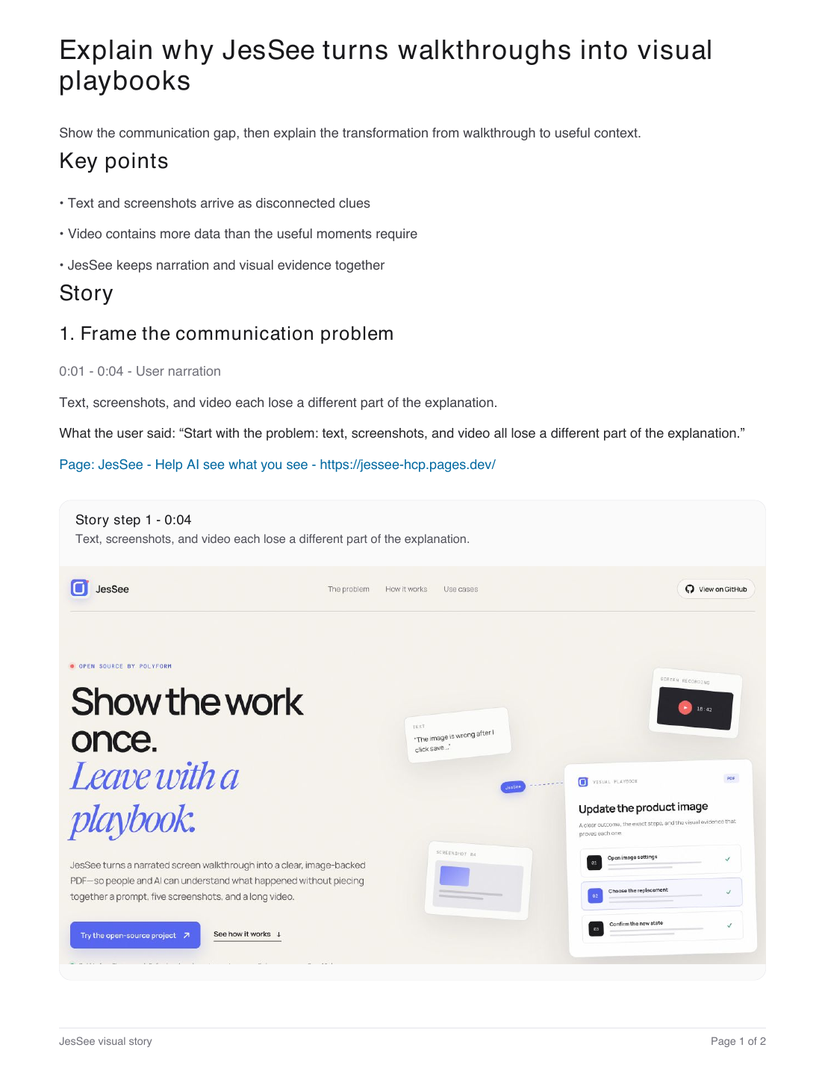
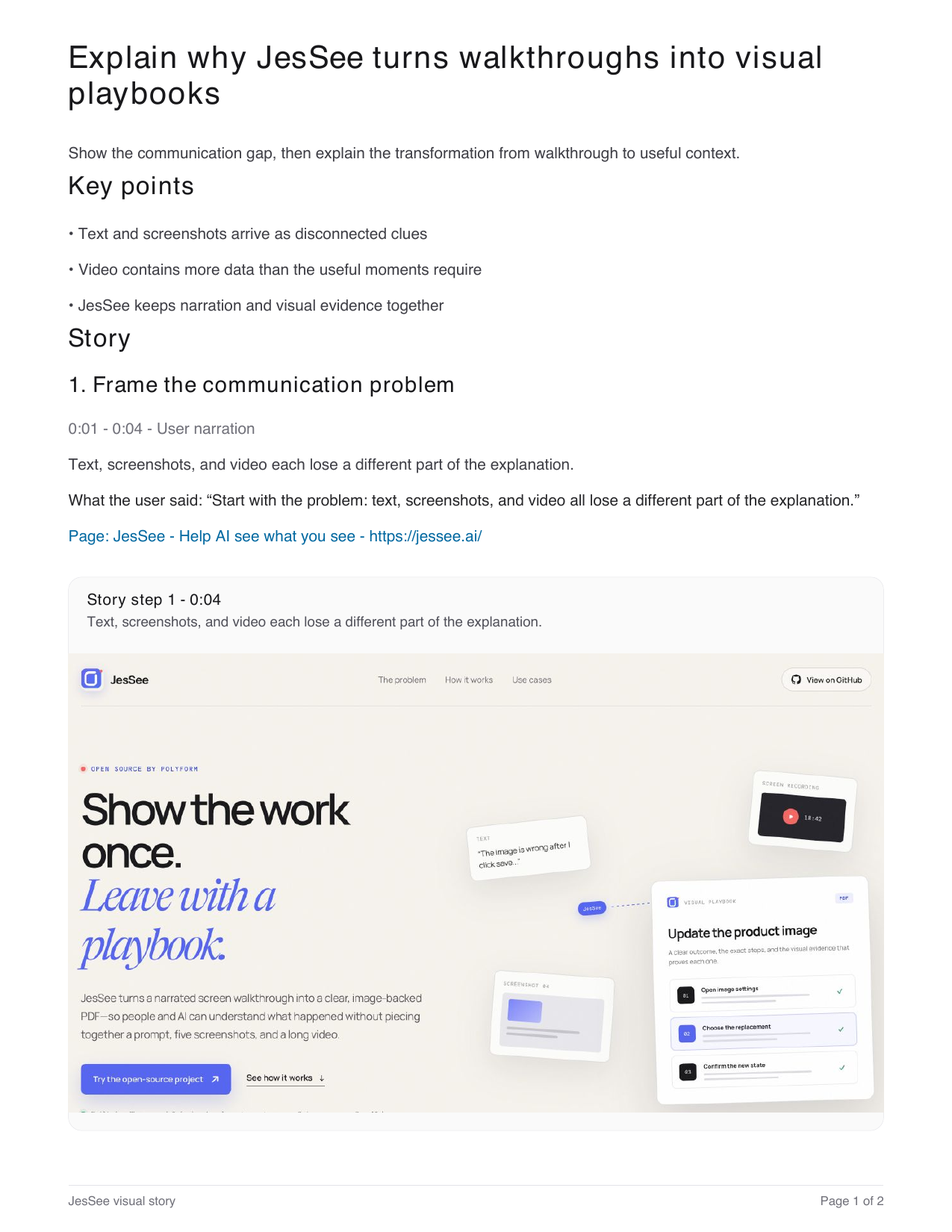
Add downloadable JesSee previews

diff --git a/website/styles.css b/website/styles.css
@@ -120,14 +120,19 @@ em { color: var(--violet); font-family: var(--serif); font-weight: 400; }
 .step-copy ul { margin: 25px 0 0; padding: 0; list-style: none; }
 .step-copy li { margin: 10px 0; padding-left: 22px; color: #46454b; font-size: 12px; position: relative; }
 .step-copy li::before { content: "✓"; position: absolute; left: 0; color: var(--violet); font-weight: 700; }
-.artifact-link { display: inline-flex; align-items: center; gap: 9px; margin-top: 26px; padding-bottom: 4px; border-bottom: 1px solid var(--ink); text-decoration: none; font-size: 12px; font-weight: 600; }
-.artifact-link span { color: var(--violet); font-size: 15px; }
+.artifact-link { width: min(100%, 390px); display: grid; grid-template-columns: 39px 1fr 22px; align-items: center; gap: 12px; margin-top: 27px; padding: 12px 14px; border: 1px solid var(--line); border-radius: 9px; background: rgba(255,255,255,.62); text-decoration: none; transition: transform .2s ease, background .2s ease, box-shadow .2s ease; }
+.artifact-link:hover { transform: translateY(-2px); background: white; box-shadow: 0 13px 30px rgba(36,33,49,.1); }
+.artifact-link .artifact-type { width: 39px; height: 39px; display: grid; place-items: center; border-radius: 7px; color: white; background: var(--violet); font-family: var(--mono); font-size: 8px; letter-spacing: .07em; }
+.artifact-link strong, .artifact-link small { display: block; }
+.artifact-link strong { font-size: 12px; }
+.artifact-link small { margin-top: 3px; color: var(--muted); font-size: 9px; font-weight: 400; }
+.artifact-link b { color: var(--violet); font-size: 18px; }
 .product-shot { width: 100%; padding: 0; overflow: hidden; position: relative; border: 1px solid rgba(25,25,28,.14); border-radius: 12px; background: #edeaf0; box-shadow: 0 28px 70px rgba(36,33,49,.13); cursor: zoom-in; text-align: left; }
 .product-shot img { width: 100%; object-fit: cover; transition: transform .45s ease; }
 .product-shot:hover img { transform: scale(1.015); }
 .product-shot > span { position: absolute; right: 13px; bottom: 13px; padding: 7px 9px; border: 1px solid rgba(25,25,28,.12); border-radius: 6px; background: rgba(255,255,255,.92); font-family: var(--mono); font-size: 8px; box-shadow: 0 6px 20px rgba(0,0,0,.08); }
 .product-shot > span b { margin-left: 5px; color: var(--violet); }
-.compact-shot { max-width: 490px; justify-self: end; background: #f8f8fa; }
+.compact-shot { max-width: 408px; justify-self: end; background: #f8f8fa; }
 .compact-shot img { aspect-ratio: auto; object-fit: contain; }
 .playbook-shot img { aspect-ratio: 16/10; object-position: top; }
 .final-step { grid-template-columns: .72fr 1.28fr; border-bottom: 0; }
@@ -137,6 +142,39 @@ em { color: var(--violet); font-family: var(--serif); font-weight: 400; }
 .pdf-page.front { padding: 0; overflow: hidden; position: relative; z-index: 1; transform: rotate(-2deg); }
 .pdf-preview { width: 100%; height: 100%; object-fit: cover; object-position: top; }
 .pdf-badge { position: absolute; right: 70px; bottom: 34px; z-index: 2; padding: 8px 11px; border-radius: 999px; color: white; background: var(--ink); font-family: var(--mono); font-size: 8px; letter-spacing: .06em; box-shadow: 0 8px 20px rgba(0,0,0,.15); }
+
+.downloads { padding-bottom: 125px; border-top: 1px solid var(--line); }
+.download-intro { display: grid; grid-template-columns: 1fr .62fr; gap: 110px; align-items: end; margin-bottom: 62px; }
+.download-intro h2 { margin: 0; font-size: clamp(42px, 4.4vw, 62px); line-height: 1.03; letter-spacing: -.058em; }
+.download-intro > p { max-width: 500px; margin: 0 0 6px; color: var(--muted); font-size: 14px; line-height: 1.72; }
+.download-grid { display: grid; grid-template-columns: 1fr 1fr; gap: 18px; }
+.download-card { min-height: 520px; padding: 37px; display: flex; flex-direction: column; border: 1px solid var(--line); border-radius: 14px; background: rgba(255,255,255,.58); box-shadow: 0 18px 48px rgba(36,33,49,.07); }
+.download-card.safari-card { background: #1d1d21; color: white; box-shadow: 0 22px 54px rgba(25,25,28,.17); }
+.download-card-head { display: grid; grid-template-columns: 52px 1fr auto; gap: 14px; align-items: center; margin-bottom: 35px; }
+.browser-mark { width: 52px; height: 52px; display: grid; place-items: center; border-radius: 13px; background: white; box-shadow: 0 8px 23px rgba(35,34,43,.12); position: relative; }
+.chrome-mark::before { content: ""; width: 30px; height: 30px; border-radius: 50%; background: conic-gradient(#ea4335 0 33%, #fbbc05 0 66%, #34a853 0); }
+.chrome-mark::after { content: ""; width: 12px; height: 12px; position: absolute; border: 4px solid white; border-radius: 50%; background: #4285f4; }
+.safari-mark { color: #2272e8; font-size: 30px; background: linear-gradient(145deg,#fff,#dcecff); }
+.download-card-head small { display: block; margin-bottom: 3px; color: var(--violet-dark); font-family: var(--mono); font-size: 7px; letter-spacing: .1em; }
+.safari-card .download-card-head small { color: #aaaaff; }
+.download-card-head h3 { margin: 0; font-size: 24px; letter-spacing: -.04em; }
+.download-card-head > b { padding: 5px 8px; border: 1px solid var(--line); border-radius: 999px; color: var(--muted); font-family: var(--mono); font-size: 7px; letter-spacing: .06em; }
+.safari-card .download-card-head > b { border-color: rgba(255,255,255,.17); color: #bab9c0; }
+.download-card > p { max-width: 510px; color: var(--muted); font-size: 14px; line-height: 1.7; }
+.safari-card > p { color: #b8b7bd; }
+.download-card ol { margin: 22px 0 32px; padding: 0; list-style: none; counter-reset: install; }
+.download-card li { min-height: 40px; padding: 10px 0 10px 43px; border-top: 1px solid var(--line); color: #4e4d53; font-size: 11px; line-height: 1.6; counter-increment: install; position: relative; }
+.download-card li:last-child { border-bottom: 1px solid var(--line); }
+.download-card li::before { content: counter(install); width: 23px; height: 23px; display: grid; place-items: center; position: absolute; left: 3px; top: 8px; border-radius: 6px; color: white; background: var(--ink); font-family: var(--mono); font-size: 8px; }
+.safari-card li { border-color: rgba(255,255,255,.13); color: #c7c6cb; }
+.safari-card li::before { color: var(--ink); background: white; }
+.download-button { width: 100%; margin-top: auto; }
+.safari-button { color: var(--ink); background: white; box-shadow: 0 13px 30px rgba(0,0,0,.18); }
+.safari-button:hover { background: #eeeeff; }
+.preview-note { display: block; margin-top: 15px; color: #929198; font-size: 9px; line-height: 1.55; }
+.download-foot { padding: 20px 4px 0; display: flex; justify-content: space-between; color: var(--muted); font-family: var(--mono); font-size: 9px; }
+.download-foot > span::before { content: ""; width: 6px; height: 6px; display: inline-block; margin: 0 8px 1px 0; border-radius: 50%; background: #f1a631; }
+.download-foot a { text-underline-offset: 4px; }
 
 .uses { width: 100%; max-width: none; padding-left: max(20px, calc((100vw - var(--max)) / 2)); padding-right: max(20px, calc((100vw - var(--max)) / 2)); background: #ece8de; }
 .uses-layout { display: grid; grid-template-columns: .76fr 1.24fr; gap: 110px; }
@@ -181,6 +219,9 @@ em { color: var(--violet); font-family: var(--serif); font-weight: 400; }
 
 footer { width: min(calc(100% - 40px), var(--max)); min-height: 130px; margin: 0 auto; display: flex; align-items: center; justify-content: space-between; }
 footer p { margin: 0; color: var(--muted); font-size: 11px; }footer p a{text-underline-offset:3px}footer > div{display:flex;gap:20px}footer > div a{color:var(--muted);font-size:10px;text-decoration:none}footer > div a:hover{color:var(--ink)}
+.made-by { padding: 8px 12px; border: 1px solid var(--line); border-radius: 999px; color: var(--muted); text-decoration: none; font-family: var(--mono); font-size: 9px; transition: color .2s ease, background .2s ease; }
+.made-by:hover { color: var(--ink); background: white; }
+.made-by span { color: var(--violet); }
 
 .lightbox { width: min(94vw, 1400px); max-height: 92vh; padding: 10px; border: 0; border-radius: 12px; background: #111; box-shadow: 0 30px 100px rgba(0,0,0,.45); }.lightbox::backdrop{background:rgba(15,14,20,.78);backdrop-filter:blur(6px)}.lightbox img{width:100%;max-height:calc(92vh - 20px);object-fit:contain}.lightbox button{position:fixed;right:24px;top:20px;width:38px;height:38px;border:1px solid rgba(255,255,255,.35);border-radius:50%;color:white;background:rgba(0,0,0,.5);font-size:22px;cursor:pointer}
 
@@ -191,10 +232,11 @@ footer p { margin: 0; color: var(--muted); font-size: 11px; }footer p a{text-und
   .hero { min-height: auto; grid-template-columns: 1fr; padding: 70px 0 90px; }
   .hero-copy { max-width: 720px; }
   .hero-visual { width: min(100%, 680px); min-height: 555px; margin: 0 auto; }
-  .problem-heading, .section-intro, .origin, .opensource { grid-template-columns: 1fr; gap: 45px; }
+  .problem-heading, .section-intro, .download-intro, .origin, .opensource { grid-template-columns: 1fr; gap: 45px; }
   .problem-heading { align-items: start; }.problem-heading p,.section-intro p{max-width:650px}
   .step, .step.reverse, .final-step { grid-template-columns: 1fr; gap: 55px; }.step.reverse .step-copy{order:0}.compact-shot{justify-self:start}
   .uses-layout { grid-template-columns: 1fr; gap: 50px; }.uses-title{position:static}.origin-copy{order:-1}
+  .download-grid { grid-template-columns: 1fr; }.download-card{min-height:490px}
   .opensource { padding-top: 100px; padding-bottom: 100px; }.repo-card{max-width:680px}
 }
 
@@ -205,7 +247,7 @@ footer p { margin: 0; color: var(--muted); font-size: 11px; }footer p a{text-und
   .section{padding-top:85px;padding-bottom:85px}.section-label{margin-bottom:40px}.problem-heading h2,.section-intro h2,.origin-copy h2{font-size:38px}
   .problem-grid{grid-template-columns:1fr}.problem-card{min-height:220px;border-right:0;border-bottom:1px solid var(--line)}.problem-card:last-child{border-bottom:0}.problem-card svg{margin-bottom:35px}
   .bridge{padding-top:85px;padding-bottom:85px}.bridge blockquote{font-size:37px}
-  .step{min-height:auto;padding:70px 0}.product-shot img{aspect-ratio:1.2/1}.pdf-result{min-height:460px;transform:scale(.9)}
+  .step{min-height:auto;padding:70px 0}.product-shot img{aspect-ratio:1.2/1}.compact-shot img{aspect-ratio:auto}.pdf-result{min-height:460px;transform:scale(.9)}.download-card{min-height:auto;padding:27px}.download-card-head{grid-template-columns:47px 1fr}.download-card-head>b{display:none}.download-foot{align-items:flex-start;flex-direction:column;gap:13px}
   .use-case{grid-template-columns:42px 1fr}.origin-card{min-height:480px;padding:37px}.origin-card blockquote{font-size:24px}.open-actions{align-items:flex-start;flex-direction:column}.repo-meta{flex-wrap:wrap}
   footer{padding:30px 0;align-items:flex-start;flex-direction:column;gap:20px}
 }

diff --git a/website/index.html b/website/index.html
@@ -8,9 +8,9 @@
     <meta property="og:title" content="JesSee — Show the work once. Leave with a playbook." />
     <meta property="og:description" content="An open-source screen explainer for turning narrated workflows into useful visual documents." />
     <meta property="og:type" content="website" />
-    <meta property="og:url" content="https://jessee-hcp.pages.dev/" />
-    <meta property="og:image" content="assets/playbook-review.png" />
-    <link rel="canonical" href="https://jessee-hcp.pages.dev/" />
+    <meta property="og:url" content="https://jessee.ai/" />
+    <meta property="og:image" content="https://jessee.ai/assets/playbook-review.png" />
+    <link rel="canonical" href="https://jessee.ai/" />
     <title>JesSee — Help AI see what you see</title>
     <link rel="icon" href="assets/icon.svg" type="image/svg+xml" />
     <link rel="stylesheet" href="styles.css" />
@@ -28,6 +28,7 @@
         <a href="#problem">The problem</a>
         <a href="#how">How it works</a>
         <a href="#uses">Use cases</a>
+        <a href="#download">Download</a>
       </nav>
       <a class="nav-cta" href="https://github.com/polyform-ai/jessee" target="_blank" rel="noreferrer">
         <svg aria-hidden="true" viewBox="0 0 24 24"><path d="M12 .7a11.5 11.5 0 0 0-3.6 22.4c.6.1.8-.2.8-.6v-2.2c-3.4.7-4.1-1.5-4.1-1.5-.5-1.4-1.3-1.8-1.3-1.8-1.1-.8.1-.8.1-.8 1.2.1 1.8 1.2 1.8 1.2 1.1 1.8 2.8 1.3 3.5 1 .1-.8.4-1.3.8-1.6-2.7-.3-5.5-1.3-5.5-5.7 0-1.3.5-2.3 1.2-3.1-.1-.3-.5-1.6.1-3.1 0 0 1-.3 3.2 1.2a11.1 11.1 0 0 1 5.8 0C16 4.6 17 4.9 17 4.9c.6 1.5.2 2.8.1 3.1.8.8 1.2 1.8 1.2 3.1 0 4.4-2.8 5.4-5.5 5.7.4.4.8 1.1.8 2.2v3.5c0 .4.2.7.8.6A11.5 11.5 0 0 0 12 .7Z"/></svg>
@@ -42,7 +43,7 @@
           <h1>Show the work once.<br /><em>Leave with a playbook.</em></h1>
           <p class="hero-lede">JesSee turns a narrated screen walkthrough into a clear, image-backed PDF—so people and AI can understand what happened without piecing together a prompt, five screenshots, and a long video.</p>
           <div class="hero-actions">
-            <a class="button primary" href="https://github.com/polyform-ai/jessee" target="_blank" rel="noreferrer">Try the open-source project <span aria-hidden="true">↗</span></a>
+            <a class="button primary" href="#download">Download the preview <span aria-hidden="true">↓</span></a>
             <a class="text-link" href="#how">See how it works <span aria-hidden="true">↓</span></a>
           </div>
           <p class="hero-note"><span class="status-dot"></span> Built for Chrome and Safari · Local capture storage · Bring your own OpenAI key</p>
@@ -136,7 +137,7 @@
               <ul><li>Narration stays aligned with the screen</li><li>Important clicks become evidence moments</li><li>Private Mode can keep screenshot pixels local</li></ul>
             </div>
             <button class="product-shot compact-shot" type="button" data-lightbox="assets/capture-coach.png" aria-label="Enlarge the JesSee capture coach screenshot">
-              <img src="assets/capture-coach.png" alt="JesSee capture window showing the Frame it, Show it, Land it coaching rhythm" />
+              <img src="assets/capture-coach.png" alt="JesSee capture window showing the Frame it, Show it, Land it coaching rhythm" loading="lazy" decoding="async" />
               <span>Actual JesSee interface <b>↗</b></span>
             </button>
           </article>
@@ -149,7 +150,7 @@
               <ul><li>Review one piece at a time</li><li>Swap any suggested image</li><li>Edit every word before export</li></ul>
             </div>
             <button class="product-shot playbook-shot" type="button" data-lightbox="assets/playbook-review.png" aria-label="Enlarge the JesSee visual playbook screenshot">
-              <img src="assets/playbook-review.png" alt="JesSee playbook editor with story sections and ranked screenshot choices" />
+              <img src="assets/playbook-review.png" alt="JesSee playbook editor with story sections and ranked screenshot choices" loading="lazy" decoding="async" />
               <span>Actual JesSee interface <b>↗</b></span>
             </button>
           </article>
@@ -159,12 +160,16 @@
               <span>STEP 03</span>
               <h3>Hand off something useful</h3>
               <p>Generate a structured PDF that another person can scan, discuss, or give to an AI agent. The important words and visual proof travel together.</p>
-              <a class="artifact-link" href="assets/jessee-explains-jessee.pdf" target="_blank">Open the PDF JesSee made from this site <span aria-hidden="true">↗</span></a>
+              <a class="artifact-link" href="assets/jessee-explains-jessee.pdf" download="JesSee-example-playbook.pdf">
+                <span class="artifact-type">PDF</span>
+                <span><strong>Download example PDF</strong><small>Two-page playbook made by JesSee from this site</small></span>
+                <b aria-hidden="true">↓</b>
+              </a>
             </div>
             <div class="pdf-result" aria-label="A visual playbook ready to share">
               <div class="pdf-page back"></div>
               <div class="pdf-page front">
-                <img class="pdf-preview" src="assets/jessee-explains-jessee-page.png" alt="First page of the PDF JesSee generated while explaining this website" />
+                <img class="pdf-preview" src="assets/jessee-explains-jessee-page.png" alt="First page of the PDF JesSee generated while explaining this website" loading="lazy" decoding="async" />
               </div>
               <span class="pdf-badge">READY TO SHARE · PDF</span>
             </div>
@@ -172,8 +177,35 @@
         </div>
       </section>
 
+      <section class="downloads section" id="download">
+        <div class="section-label reveal"><span>03</span> Try the developer preview</div>
+        <div class="download-intro reveal">
+          <div>
+            <p class="eyebrow"><span></span> Open source · v0.1.0 alpha</p>
+            <h2>Choose your browser.<br /><em>See if JesSee helps.</em></h2>
+          </div>
+          <p>These are early, unverified builds from the public GitHub repository. They are not yet listed in the Chrome Web Store or Mac App Store, so installation takes a few deliberate steps.</p>
+        </div>
+        <div class="download-grid">
+          <article class="download-card reveal">
+            <div class="download-card-head"><span class="browser-mark chrome-mark" aria-hidden="true"></span><div><small>DEVELOPER PREVIEW</small><h3>Chrome</h3></div><b>LOAD UNPACKED</b></div>
+            <p>Download and unzip the extension, then load its folder from Chrome's Extensions page.</p>
+            <ol><li>Open <strong>chrome://extensions</strong></li><li>Turn on <strong>Developer mode</strong></li><li>Choose <strong>Load unpacked</strong> and select the unzipped folder</li></ol>
+            <a class="button primary download-button" href="https://github.com/polyform-ai/jessee/releases/download/v0.1.0-alpha.1/JesSee-Chrome-v0.1.0-alpha.1.zip">Download for Chrome <span aria-hidden="true">↓</span></a>
+          </article>
+          <article class="download-card safari-card reveal" data-delay="1">
+            <div class="download-card-head"><span class="browser-mark safari-mark" aria-hidden="true">◉</span><div><small>TEMPORARY BETA</small><h3>Safari</h3></div><b>SAFARI 17+</b></div>
+            <p>Safari can load the open-source extension ZIP temporarily while the signed and notarized release is being prepared.</p>
+            <ol><li>Enable <strong>Show features for web developers</strong></li><li>In Safari Settings → Developer, allow unsigned extensions</li><li>Choose <strong>Add Temporary Extension</strong> and select the ZIP</li></ol>
+            <a class="button safari-button download-button" href="https://github.com/polyform-ai/jessee/releases/download/v0.1.0-alpha.1/JesSee-Safari-v0.1.0-alpha.1.zip">Download for Safari <span aria-hidden="true">↓</span></a>
+            <small class="preview-note">Temporary Safari extensions are removed when Safari quits or after 24 hours. The GitHub source includes the persistent Xcode build for Safari 16.4+.</small>
+          </article>
+        </div>
+        <div class="download-foot reveal"><span>Not store-reviewed or notarized yet</span><a href="https://github.com/polyform-ai/jessee/blob/v0.1.0-alpha.1/docs/INSTALL_PREVIEW.md" target="_blank" rel="noreferrer">Read the complete installation guide ↗</a></div>
+      </section>
+
       <section class="uses section" id="uses">
-        <div class="section-label reveal"><span>03</span> How I use JesSee</div>
+        <div class="section-label reveal"><span>04</span> How I use JesSee</div>
         <div class="uses-layout">
           <div class="uses-title reveal">
             <h2>For the work that is easier to show than write.</h2>
@@ -239,7 +271,7 @@
 
     <footer>
       <a class="brand" href="#top"><img src="assets/icon.svg" alt="" width="32" height="32" /><span>JesSee</span></a>
-      <p>An open-source experiment by <a href="https://polyform.ai" target="_blank" rel="noreferrer">Polyform</a>.</p>
+      <a class="made-by" href="https://polyform.ai" target="_blank" rel="noreferrer">Created by Polyform <span aria-hidden="true">↗</span></a>
       <div><a href="https://github.com/polyform-ai/jessee" target="_blank" rel="noreferrer">GitHub</a><a href="https://github.com/polyform-ai/jessee/issues" target="_blank" rel="noreferrer">Issues</a><a href="mailto:ahmed@polyform.ai">Contact</a></div>
     </footer>
 

diff --git a/tests/extension.spec.ts b/tests/extension.spec.ts
@@ -13,6 +13,7 @@ test("loads extension settings page", async () => {
   const userDataDir = mkdtempSync(resolve(tmpdir(), "jessee-extension-"));
   const context = await chromium.launchPersistentContext(userDataDir, {
     headless: false,
+    deviceScaleFactor: 2,
     args: [
       "--no-first-run",
       "--no-default-browser-check",
@@ -63,7 +64,7 @@ test("loads extension settings page", async () => {
           status: "planned",
           startedAt: Date.now() - 10_000,
           stoppedAt: Date.now(),
-          timeline: [{ id: "page-change", type: "url-change", atMs: 6_000, url: "https://jessee-hcp.pages.dev/#problem", title: "JesSee - The communication gap" }],
+          timeline: [{ id: "page-change", type: "url-change", atMs: 6_000, url: "https://jessee.ai/#problem", title: "JesSee - The communication gap" }],
           transcript: {
             text: "Start with the problem: text, screenshots, and video all lose a different part of the explanation. Then show how JesSee turns the walkthrough into a visual playbook.",
             segments: [
@@ -72,8 +73,8 @@ test("loads extension settings page", async () => {
             ]
           },
           screenshots: [
-            { id: "shot-1", capturedAtMs: 4_000, url: "https://jessee-hcp.pages.dev/", title: "JesSee - Help AI see what you see", dataUrl: overviewScreenshot, annotations: [], redactions: [] },
-            { id: "shot-2", capturedAtMs: 7_000, url: "https://jessee-hcp.pages.dev/#problem", title: "JesSee - The communication gap", dataUrl: problemScreenshot, annotations: [], redactions: [] }
+            { id: "shot-1", capturedAtMs: 4_000, url: "https://jessee.ai/", title: "JesSee - Help AI see what you see", dataUrl: overviewScreenshot, annotations: [], redactions: [] },
+            { id: "shot-2", capturedAtMs: 7_000, url: "https://jessee.ai/#problem", title: "JesSee - The communication gap", dataUrl: problemScreenshot, annotations: [], redactions: [] }
           ],
           captureAnalysis: {
             userGoal: "Explain why JesSee turns walkthroughs into visual playbooks",
@@ -86,8 +87,8 @@ test("loads extension settings page", async () => {
               { screenshotId: "shot-2", atSeconds: 7, reason: "Shows the three disconnected input problems" }
             ],
             storySteps: [
-              { startSeconds: 0.5, endSeconds: 4, title: "Frame the communication problem", narrative: "Text, screenshots, and video each lose a different part of the explanation.", transcript: "Start with the problem: text, screenshots, and video all lose a different part of the explanation.", screenshotId: "shot-1", pageUrl: "https://jessee-hcp.pages.dev/", pageTitle: "JesSee - Help AI see what you see", kind: "narration" },
-              { startSeconds: 6, endSeconds: 7, title: "Show what gets lost", narrative: "The problem becomes concrete before JesSee introduces the solution.", transcript: "Then show how JesSee turns the walkthrough into a visual playbook.", screenshotId: "shot-2", pageUrl: "https://jessee-hcp.pages.dev/#problem", pageTitle: "JesSee - The communication gap", kind: "page-change" }
+              { startSeconds: 0.5, endSeconds: 4, title: "Frame the communication problem", narrative: "Text, screenshots, and video each lose a different part of the explanation.", transcript: "Start with the problem: text, screenshots, and video all lose a different part of the explanation.", screenshotId: "shot-1", pageUrl: "https://jessee.ai/", pageTitle: "JesSee - Help AI see what you see", kind: "narration" },
+              { startSeconds: 6, endSeconds: 7, title: "Show what gets lost", narrative: "The problem becomes concrete before JesSee introduces the solution.", transcript: "Then show how JesSee turns the walkthrough into a visual playbook.", screenshotId: "shot-2", pageUrl: "https://jessee.ai/#problem", pageTitle: "JesSee - The communication gap", kind: "page-change" }
             ]
           }
         }

diff --git a/docs/INSTALL_PREVIEW.md b/docs/INSTALL_PREVIEW.md
@@ -1,0 +1,31 @@
+# Install the JesSee developer preview
+
+JesSee is open source, but these early downloads are not yet reviewed or signed by the Chrome Web Store or Apple. Install only if you are comfortable testing code from the public repository.
+
+## Chrome
+
+1. Download `JesSee-Chrome-v0.1.0-alpha.1.zip` from the [GitHub prerelease](https://github.com/polyform-ai/jessee/releases/tag/v0.1.0-alpha.1).
+2. Unzip the download.
+3. Open `chrome://extensions` in Chrome.
+4. Turn on **Developer mode**.
+5. Choose **Load unpacked** and select the unzipped folder.
+
+Chrome only allows ordinary one-click installation for extensions signed and hosted by the Chrome Web Store. This ZIP is deliberately installed as an unpacked developer extension.
+
+## Safari 17 or newer
+
+1. Download `JesSee-Safari-v0.1.0-alpha.1.zip` from the [GitHub prerelease](https://github.com/polyform-ai/jessee/releases/tag/v0.1.0-alpha.1). Do not unzip it.
+2. In Safari, open **Settings → Advanced** and enable **Show features for web developers**.
+3. Open **Settings → Developer** and enable **Allow unsigned extensions**.
+4. Choose **Add Temporary Extension…** and select the downloaded ZIP.
+5. Open **Settings → Extensions**, enable JesSee, and approve access when Safari asks.
+
+Safari removes temporary extensions when Safari quits or after 24 hours. The unsigned-extension setting also resets when Safari quits.
+
+For persistent local development on Safari 16.4 or newer, clone the repository, run `npm run build:safari`, open `safari/JesSee.xcodeproj`, select a Development Team if available, and run the JesSee scheme. A normal public Safari download requires a Developer ID signature and Apple notarization, or App Store distribution.
+
+## Verify the downloads
+
+The prerelease includes `SHA256SUMS.txt`. Run `shasum -a 256 <downloaded-file>` and compare the result with the matching entry before installing.
+
+Report problems through [GitHub Issues](https://github.com/polyform-ai/jessee/issues).

diff --git a/README.md b/README.md
@@ -160,7 +160,9 @@ For a concise product walkthrough, use the [two-minute demo playbook](docs/DEMO_
 
 ## Website
 
-The open-source product site lives in `website/` and is hosted at [jessee-hcp.pages.dev](https://jessee-hcp.pages.dev) on Cloudflare Pages. Preview it locally with `npm run site:preview`. Maintainers can deploy a branch preview with `npm run deploy:cloudflare:preview`; `npm run deploy:cloudflare` publishes the `main` production branch.
+The open-source product site lives in `website/` and is hosted at [jessee.ai](https://jessee.ai) on Cloudflare Pages. Preview it locally with `npm run site:preview`. Maintainers can deploy a branch preview with `npm run deploy:cloudflare:preview`; `npm run deploy:cloudflare` publishes the `main` production branch.
+
+Early Chrome and Safari downloads are published as GitHub prerelease assets. Run `npm run release:package` to produce both ZIP files and their checksums. See [the developer-preview installation guide](docs/INSTALL_PREVIEW.md) for the deliberate installation steps and current verification limits.
 
 ## Safari
 
